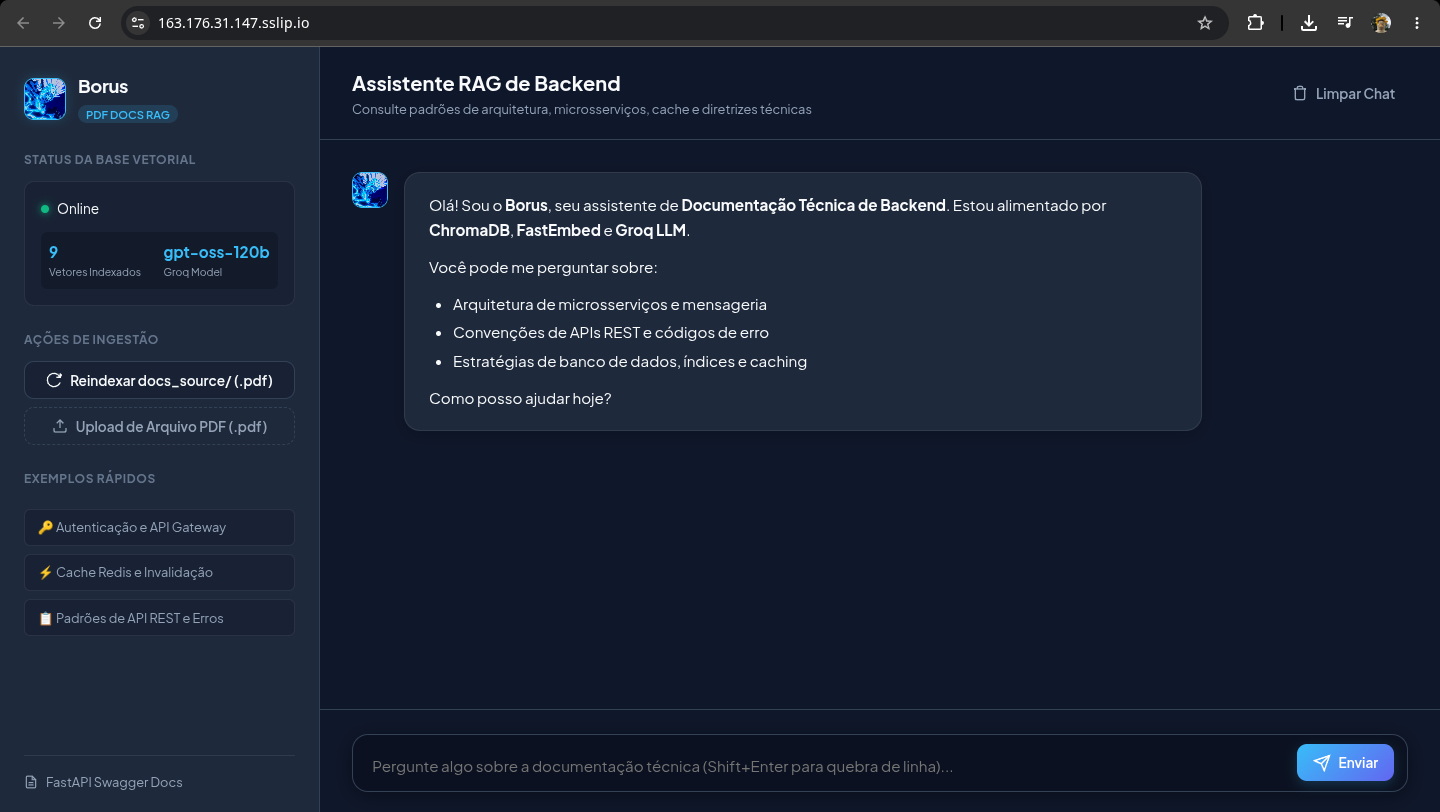
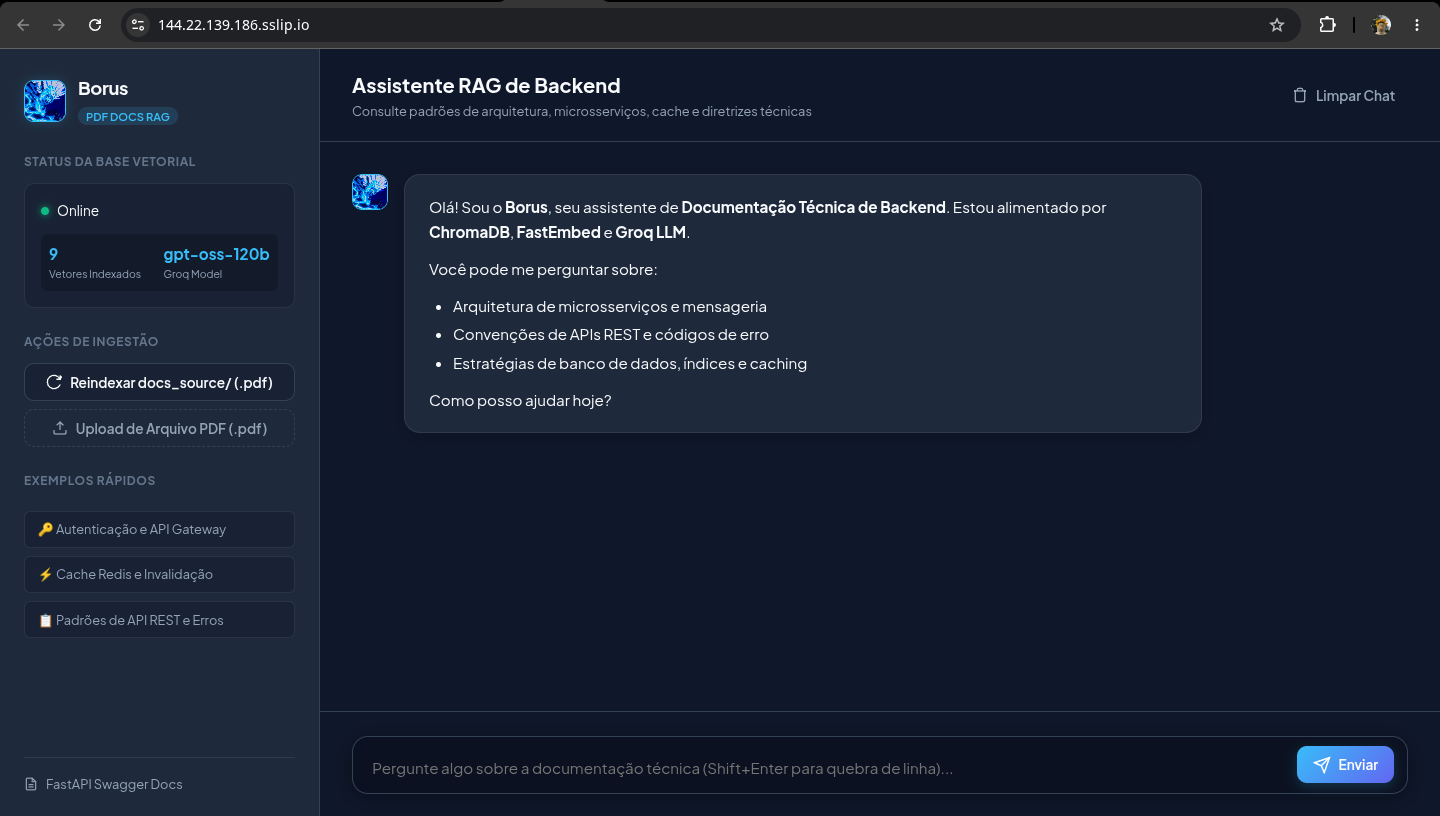
fix(infra): update OCI reserved public IP to 144.22.139.186

diff --git a/README.md b/README.md
@@ -12,23 +12,23 @@ O **Borus** é um agente inteligente de Geração Aumentada por Recuperação (R
 
 ---
 
-## 📑 Sumário
+## Sumário
 
-- [🏛 Arquitetura da Solução](#-arquitetura-da-solução)
-- [📂 Estrutura do Projeto](#-estrutura-do-projeto)
-- [🛠 Tecnologias Utilizadas](#-tecnologias-utilizadas)
-- [💡 Exemplos de Perguntas e Respostas](#-exemplos-de-perguntas-e-respostas-do-agente)
-- [⚙ Configuração do Ambiente (`.env`)](#-configuração-do-ambiente-env)
-- [🚀 Como Executar](#-como-executar)
+- [Arquitetura da Solução](#-arquitetura-da-solução)
+- [Estrutura do Projeto](#-estrutura-do-projeto)
+- [Tecnologias Utilizadas](#-tecnologias-utilizadas)
+- [Exemplos de Perguntas e Respostas](#-exemplos-de-perguntas-e-respostas-do-agente)
+- [Configuração do Ambiente (`.env`)](#-configuração-do-ambiente-env)
+- [Como Executar](#-como-executar)
   - [Opção 1: Docker Compose (Recomendado)](#opção-1-execução-com-docker-compose-recomendado)
   - [Opção 2: Python Virtualenv Local](#opção-2-execução-local-com-python-virtualenv)
   - [Ingestão e Upload de Novos PDFs](#-ingestão-e-upload-de-novos-pdfs)
-- [☁ Evidência do Deploy na OCI (Oracle Cloud Infrastructure)](#-evidência-do-deploy-na-oci-oracle-cloud-infrastructure)
+- [Evidência do Deploy na OCI](#-evidência-do-deploy-na-oci-oracle-cloud-infrastructure)
   - [Passos Realizados para o Deploy](#passos-realizados-para-o-deploy-na-oci)
   - [Informações do Deploy e Acesso HTTPS](#informações-do-deploy-na-oci)
-  - [📸 Capturas de Tela da Aplicação no Ar](#-capturas-de-tela-da-aplicação-no-ar-na-oci)
-- [🧪 Testes Automatizados](#-testes-automatizados)
-- [📄 Licença](#-licença)
+  - [Capturas de Tela da Aplicação no Ar](#-capturas-de-tela-da-aplicação-no-ar-na-oci)
+- [Testes Automatizados](#-testes-automatizados)
+- [Licença](#-licença)
 
 ---
 
@@ -281,8 +281,8 @@ Este projeto foi preparado para execução em instâncias de computação da **O
    ```
 
 ### Informações do Deploy na OCI:
-- **Link Público da Aplicação (HTTPS)**: [https://163.176.31.147.sslip.io](https://163.176.31.147.sslip.io)
-- **Documentação Swagger (OpenAPI)**: [https://163.176.31.147.sslip.io/docs](https://163.176.31.147.sslip.io/docs)
+- **Link Público da Aplicação (HTTPS)**: [https://144.22.139.186.sslip.io](https://144.22.139.186.sslip.io)
+- **Documentação Swagger (OpenAPI)**: [https://144.22.139.186.sslip.io/docs](https://144.22.139.186.sslip.io/docs)
 - **Proxy Reverso & Segurança**: Caddy 2 com TLS automático gerenciando o tráfego externo e roteando para `borus:8000` internamente.
 
 ### 📸 Capturas de Tela da Aplicação no Ar na OCI:
